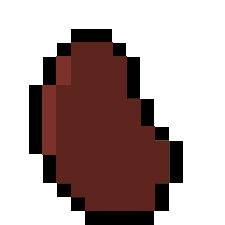
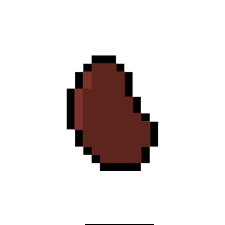
Subscription styles, update NFT images

diff --git a/client/src/routes/Subscriptions/Subscriptions.js b/client/src/routes/Subscriptions/Subscriptions.js
@@ -3,12 +3,44 @@ import React from "react";
 import styles from "./Subscriptions.module.css";
  
 import loyalBean from '../../images/loyalBean.png'
+import wine from '../../images/wine.png'
+import rewardCoffee from '../../images/rewardCoffee.png'
 
 function Subscriptions() {
   return (
-    <div>
-        <h1>These are my subscriptions!</h1>
-        <img src={loyalBean} alt='loyalBean'/>
+    <div id={styles.subs}>
+
+      <h3>Active Subscriptions</h3>
+      <div className={styles.sublist}>
+
+        <div className={styles.subcard}>
+          <img className={styles.mySub} src={loyalBean} alt='loyalBean'/>
+          <div className={styles.label}>
+            <div>6 months</div>
+            <div>Mocha Madness</div>
+          </div>
+        </div>
+
+        <div className={styles.subcard}>
+          <img className={styles.mySub} src={wine} alt='wine'/>
+          <div className={styles.label}>
+            <div>3 months</div>
+            <div>Aya's Winery</div>
+          </div>
+        </div>
+
+      </div>
+
+      <h3 id={styles.rewards}>Rewards</h3>
+      <div className={styles.subcard}>
+        <img className={styles.mySub} src={rewardCoffee} alt='rewardCoffee'/>
+        <div className={styles.label}>
+            <div>1 month free coffee!</div>
+            <div>Mocha Madness</div>
+        </div>
+      </div>
+
+
     </div>
   );
 }

diff --git a/client/src/routes/Subscriptions/Subscriptions.module.css b/client/src/routes/Subscriptions/Subscriptions.module.css
@@ -1,0 +1,52 @@
+#subs{
+    margin-left: 1.25em;
+    position: relative;
+    bottom: 1em;
+}
+
+/* display subscriptions  */
+.sublist{
+    display: flex;
+}
+
+/* subscription image and labels */
+.subcard{
+    width: 12em;
+    margin: 0;
+    margin-right: 5em;
+    padding: 0;
+    
+    position: relative;
+    bottom: 1em;
+}
+
+/* subscription image */
+.mySub{
+    /* width: 10em; */
+    height: 10em;
+    width: 12em;
+
+    border: 1px solid #00e676;
+    border-radius: 3%;
+}
+
+/* subscription label container */
+.label{
+    width: 12em;
+    margin: 0;
+    padding: 0;
+    display: grid;
+}
+.label>*{
+    justify-self: center;
+}
+
+/* keep everything visible on pageload for mock UI */
+#rewards{
+    position: relative;
+    bottom: 1em;
+}
+#rewards+div{
+    position: relative; 
+    bottom: 3em;
+}
